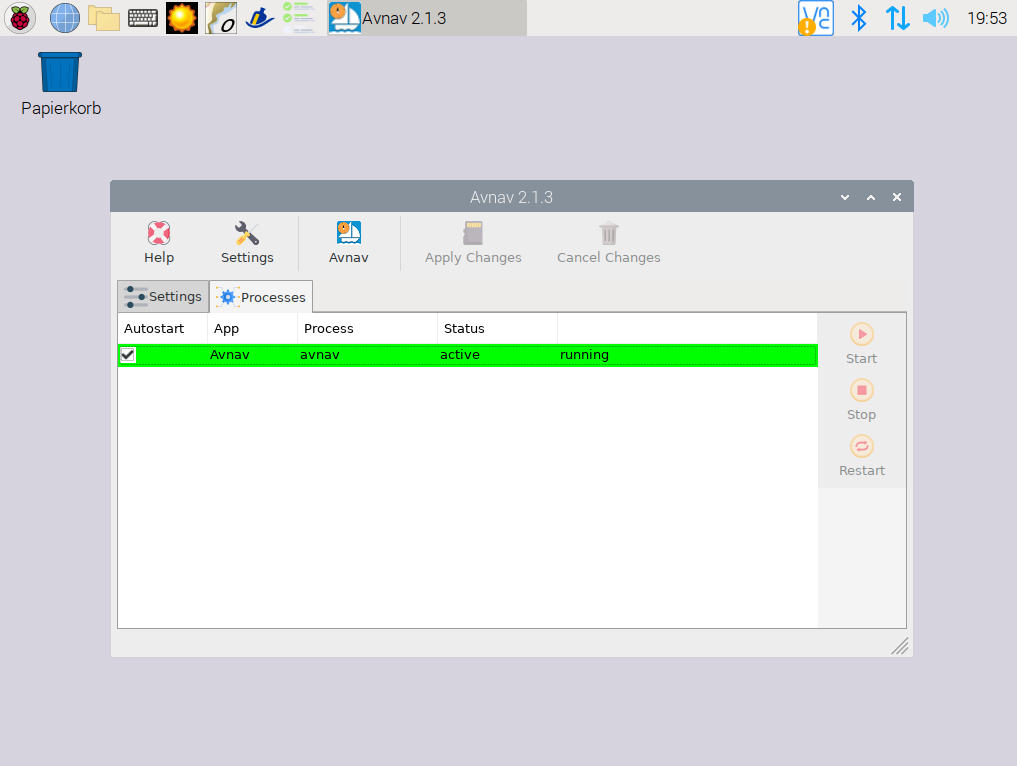
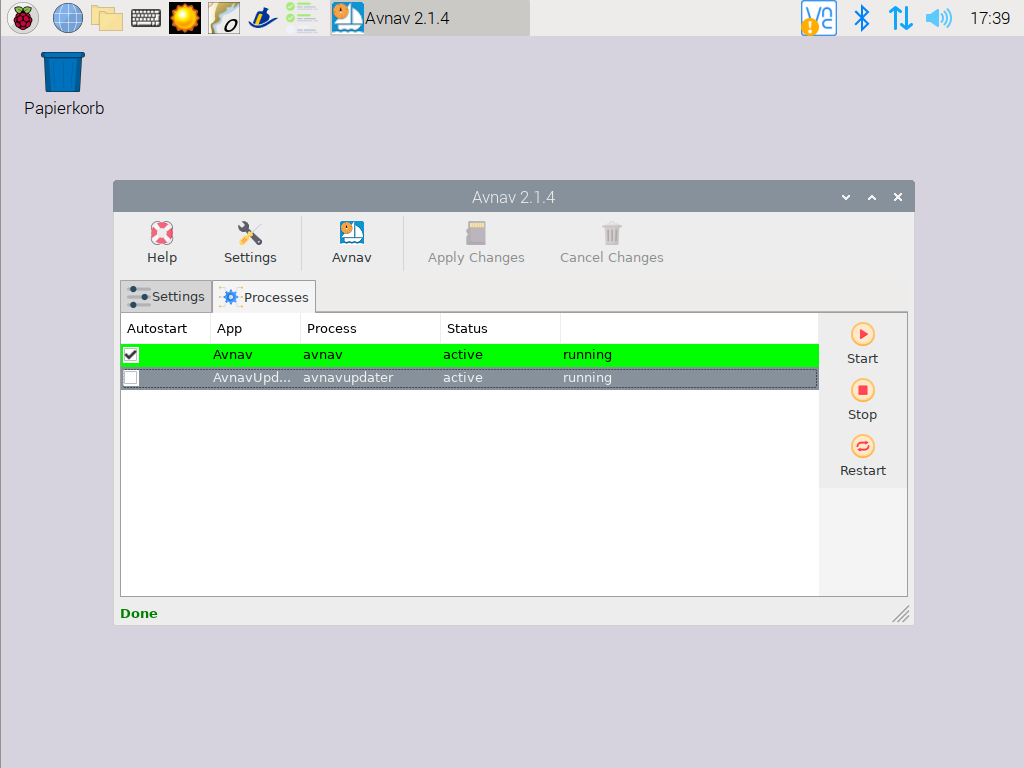
update installer picture and description

diff --git a/avnav/avnav_app.rst b/avnav/avnav_app.rst
@@ -36,8 +36,8 @@ Installer
 .. image:: img/installer1.png
 
 * will download and install the AvNav software and the necessary plugins
-* show the status of the server part and allow to start and stop it
-* allow for some basic settings (others directly within the AvNav app itself)
+* shows the status of the server part and allows to start and stop it
+* allows for some basic port settings (others directly within the AvNav app itself)
 * set up connectivity between SignalK and AvNav
 * NMEA traffic is configured to run from SignalK to AvNav
 
@@ -53,5 +53,5 @@ process that is running independently from avnav and again has an own port for t
 (default: 8085).
 You can modify the ports at the settings tab if they interfere with others
 applications you have installed. OpenPlotter will check this and warn you accordingly.
-
+aha
 
